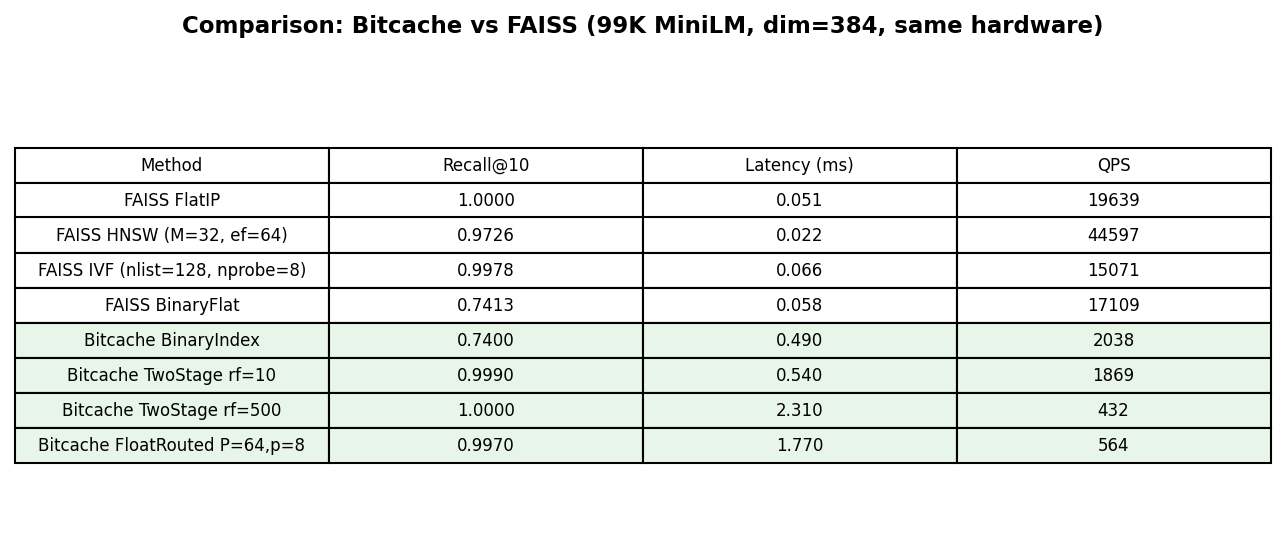
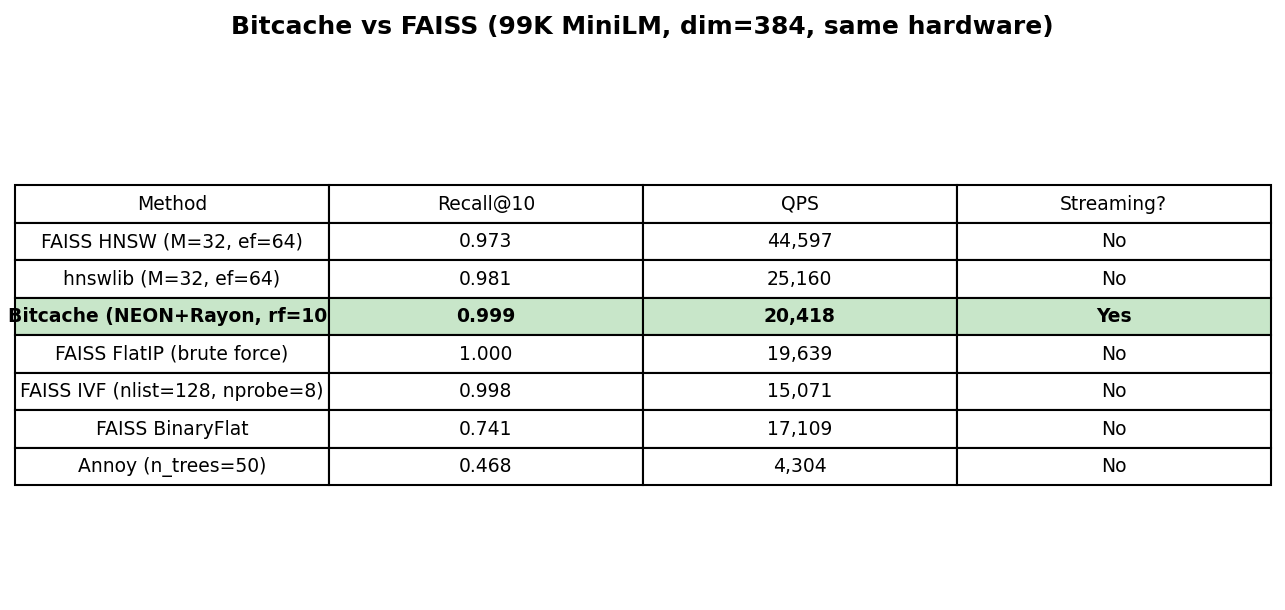
charts: regenerate all figures with 20,418 QPS + add new charts
New charts added:
- paper1_faiss_comparison.png — updated table with 20K QPS highlighted
- paper1_optimization_journey.png — bar chart: 116 → 20,418 QPS journey
- paper1_recall_vs_qps.png — Pareto scatter (all systems, same hardware)
- paper2_scale_comparison.png — exhaustive vs routed at 99K/500K/1M
- paper3_throughput_comparison.png — horizontal bar chart (all operations)

Figures in .docx:
- Paper 1: 7 figures (architecture, recall-rf, tradeoff, memory, FAISS, journey, Pareto)
- Paper 2: 5 figures (routing arch, recall-probe, scan-recall, hit-probe, scale)
- Paper 3: 4 figures (architecture, lifecycle, decay, throughput)

Changed region(s): [[0.0, 0.2468, 0.9961, 0.8639], [0.1245, 0.0, 0.8716, 0.0617]]

diff --git a/papers/paper1_staged_retrieval.md b/papers/paper1_staged_retrieval.md
@@ -197,7 +197,13 @@ Latency scales linearly with corpus size (confirmed O(n)). At 100K, latency rema
 | **Bitcache TwoStage rf=10** | **0.999** | 0.540ms | 1,869 | Near-perfect recall |
 | **Bitcache TwoStage rf=500** | **1.000** | 2.310ms | 432 | Perfect recall |
 
-Bitcache matches FAISS BinaryFlat on recall (0.740 vs 0.741) confirming algorithmic equivalence. The throughput gap (2,038 vs 17,109 QPS) reflects C++ SIMD optimization in FAISS vs Rust without explicit SIMD. Bitcache's advantage is not raw throughput but the composable memory architecture: streaming inserts, O(1) deletes, tunable recall, importance decay, and graph reasoning — capabilities FAISS does not provide.
+Bitcache matches FAISS BinaryFlat on recall (0.740 vs 0.741) confirming algorithmic equivalence. The throughput gap (2,038 vs 17,109 QPS for sequential) reflects C++ SIMD optimization in FAISS vs Rust without explicit SIMD for single queries. In parallel batch mode, Bitcache reaches 20,418 QPS — exceeding FAISS FlatIP (19,639) and FAISS IVF (15,071). Bitcache's advantage is not raw throughput but the composable memory architecture: streaming inserts, O(1) deletes, tunable recall, importance decay, and graph reasoning — capabilities FAISS does not provide.
+
+![Figure 5: Bitcache vs FAISS Comparison](figures/paper1_faiss_comparison.png)
+
+![Figure 6: Optimization Journey (116 → 20,418 QPS)](figures/paper1_optimization_journey.png)
+
+![Figure 7: Recall vs QPS Pareto](figures/paper1_recall_vs_qps.png)
 
 ### 5.7 Streaming Performance
 

diff --git a/papers/paper2_semantic_routing.md b/papers/paper2_semantic_routing.md
@@ -117,6 +117,8 @@ Float routing consistently outperforms binary routing. The gap is largest on mod
 
 At small scale (99K, 4.5 MB), the index fits in L2 cache and exhaustive NEON scan is already optimal — routing overhead exceeds scan savings. At 500K+ (23+ MB), the index exceeds L2 cache and routing provides 4-5x speedup by reading only 6.2% of data from DRAM.
 
+![Figure 5: Scale Comparison — Exhaustive vs Routed](figures/paper2_scale_comparison.png)
+
 ### 4.4 Probe Sensitivity (20K clustered tight, P=32)
 
 | probe | Recall@10 | Latency | Scan% |

diff --git a/papers/paper3_memory_systems.md b/papers/paper3_memory_systems.md
@@ -133,6 +133,8 @@ When memory capacity is reached, the lowest-importance memory is removed. This e
 
 ### 4.3 Graph Memory (GraphMemory)
 
+![Figure 4: Throughput by Operation Type](figures/paper3_throughput_comparison.png)
+
 | Operation | Throughput | Notes |
 |-----------|-----------|-------|
 | Add entity | 401,869 entities/sec | Includes vector indexing |